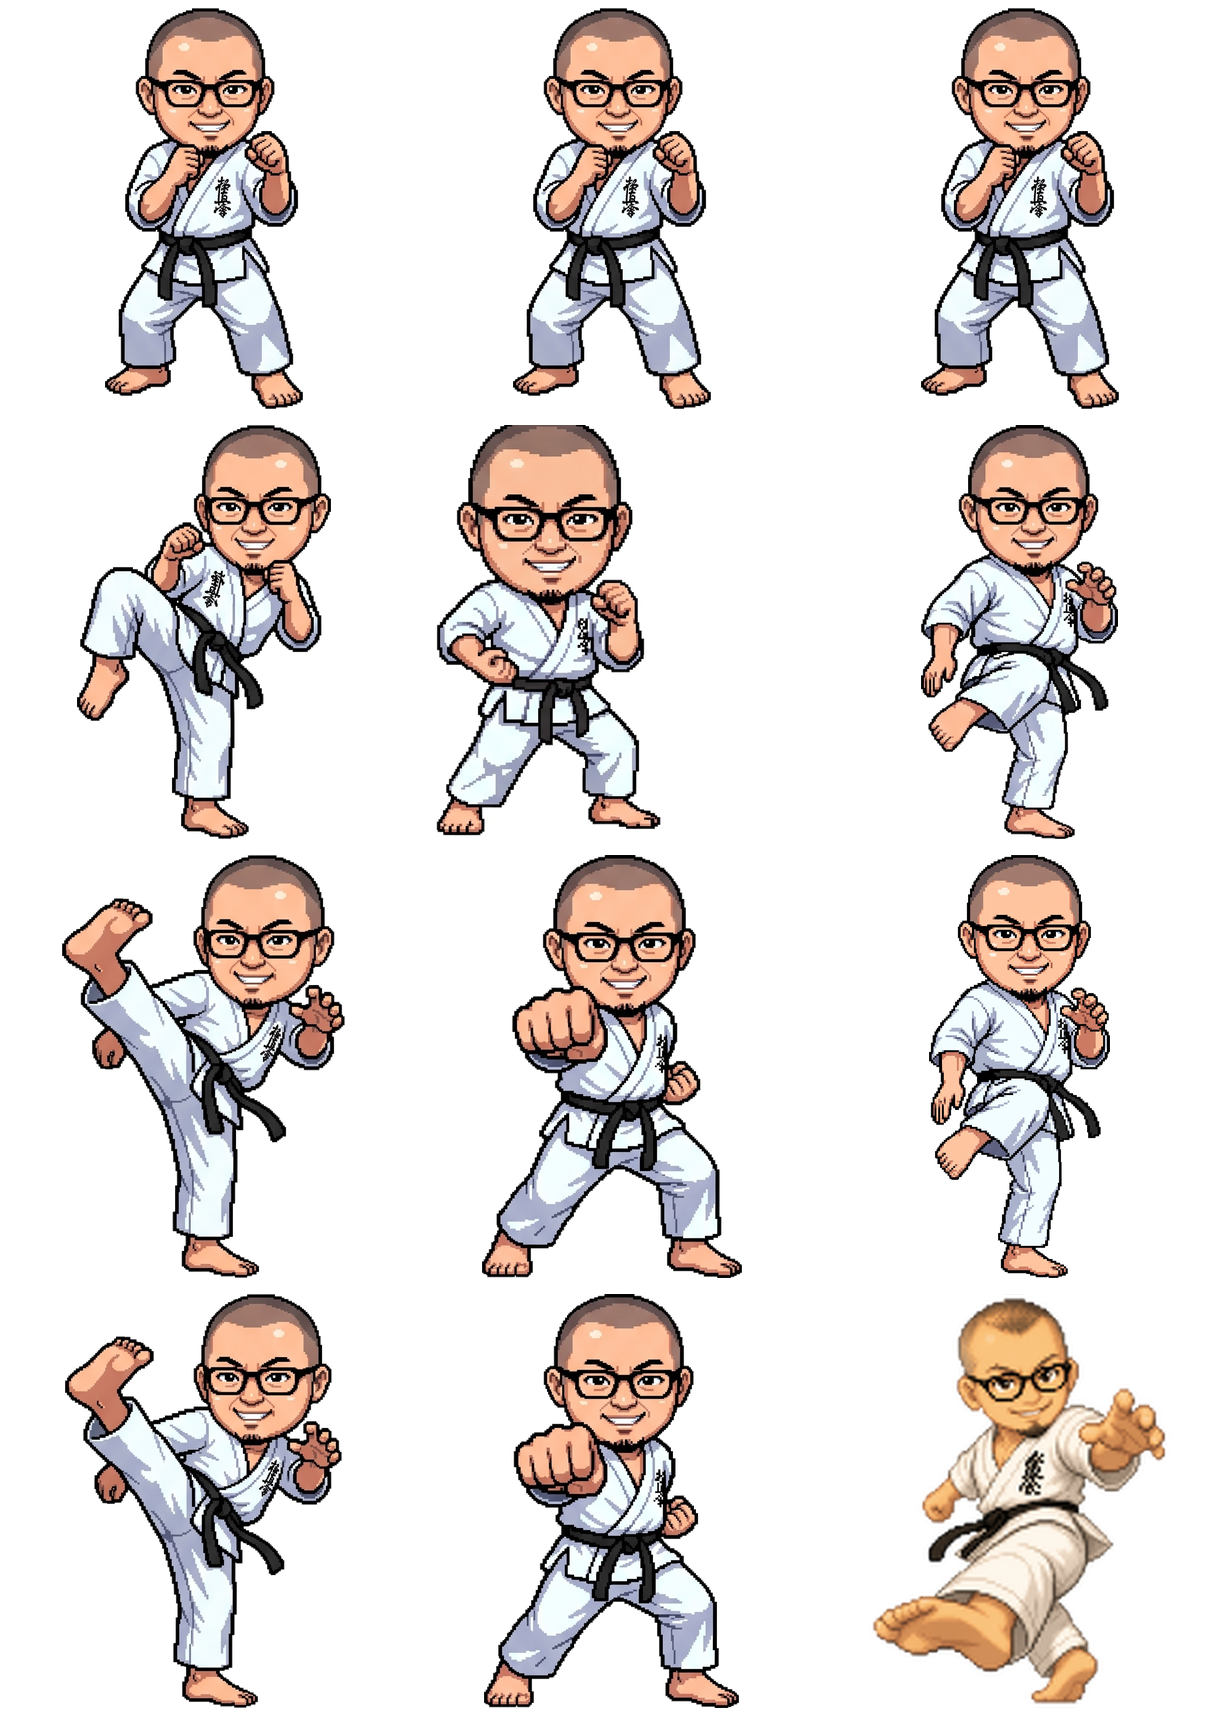
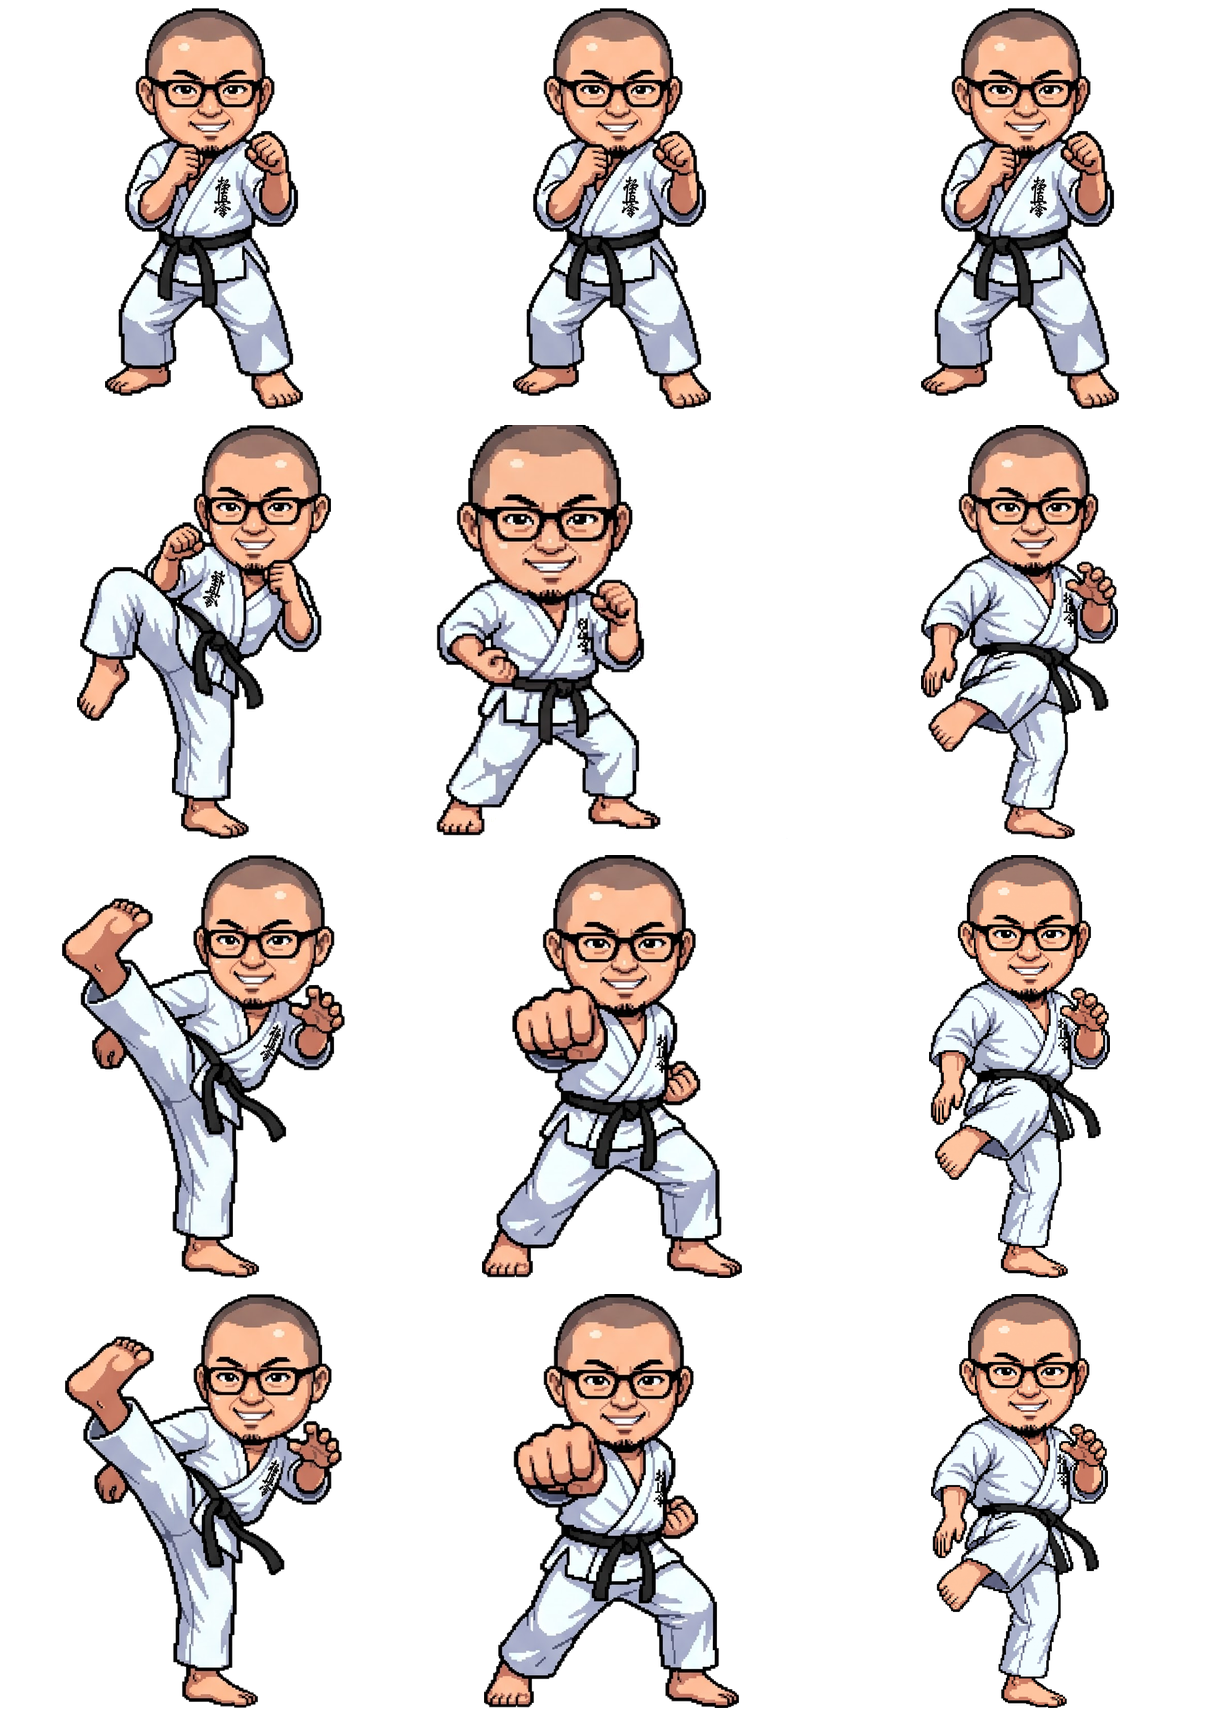
Reaction dojo: drop the off-style strike placeholder, fall back to the contact frame
Claude-Session: https://claude.ai/code/session_01GPe7NTLQCYpuJm8yA2gNU2

Changed region(s): [[0.7141, 0.7413, 0.9624, 1.0]]

diff --git a/sites/reaction-dojo/PROMPTS.md b/sites/reaction-dojo/PROMPTS.md
@@ -137,7 +137,7 @@ Full body visible head to toe, centered. Plain solid white background, no shadow
 ```
 Use the attached photo as the character reference (and the attached finished sprite as the style reference). Pixel art sprite of this same man, drawn as a cute chibi 16-bit retro fighting game character: big round head about one third of body height, buzz cut, black rectangular glasses, grin, goatee, white karate gi with black belt, bare feet. Crisp pixel outlines, flat limited palette, no gradients, no realism. Camera is the opponent at eye level, and the man FACES the camera.
 
-Pose: his low roundhouse kick arrives AT the camera's front thigh. His right leg is extended toward the camera low and across, strongly foreshortened, so his shin and the top of his foot are large in the lower left foreground at knee height, toes pointing to the left, sole hidden, knee slightly bent. Hips turned over, belt knot swung to the left edge of his waist, supporting left foot pivoted with the heel toward the camera. Right arm swung down and back behind his hip; left hand reaching forward toward the camera at chest height. Head turned to look at the camera.
+Pose: his low roundhouse kick arrives AT the camera's front thigh. His RIGHT leg (which appears on the LEFT side of the picture, since he faces the camera) is extended toward the camera low and across, strongly foreshortened, so his shin and the top of his foot are large in the lower left foreground at knee height, toes pointing to the left, sole hidden, knee slightly bent. His left leg stays on the floor on the right side of the picture as the supporting leg. Hips turned over, belt knot swung to the left edge of his waist, supporting left foot pivoted with the heel toward the camera. Right arm swung down and back behind his hip; left hand reaching forward toward the camera at chest height. Head turned to look at the camera.
 
 Full body visible head to toe, centered. Plain solid white background, no shadow, no text.
 ```
